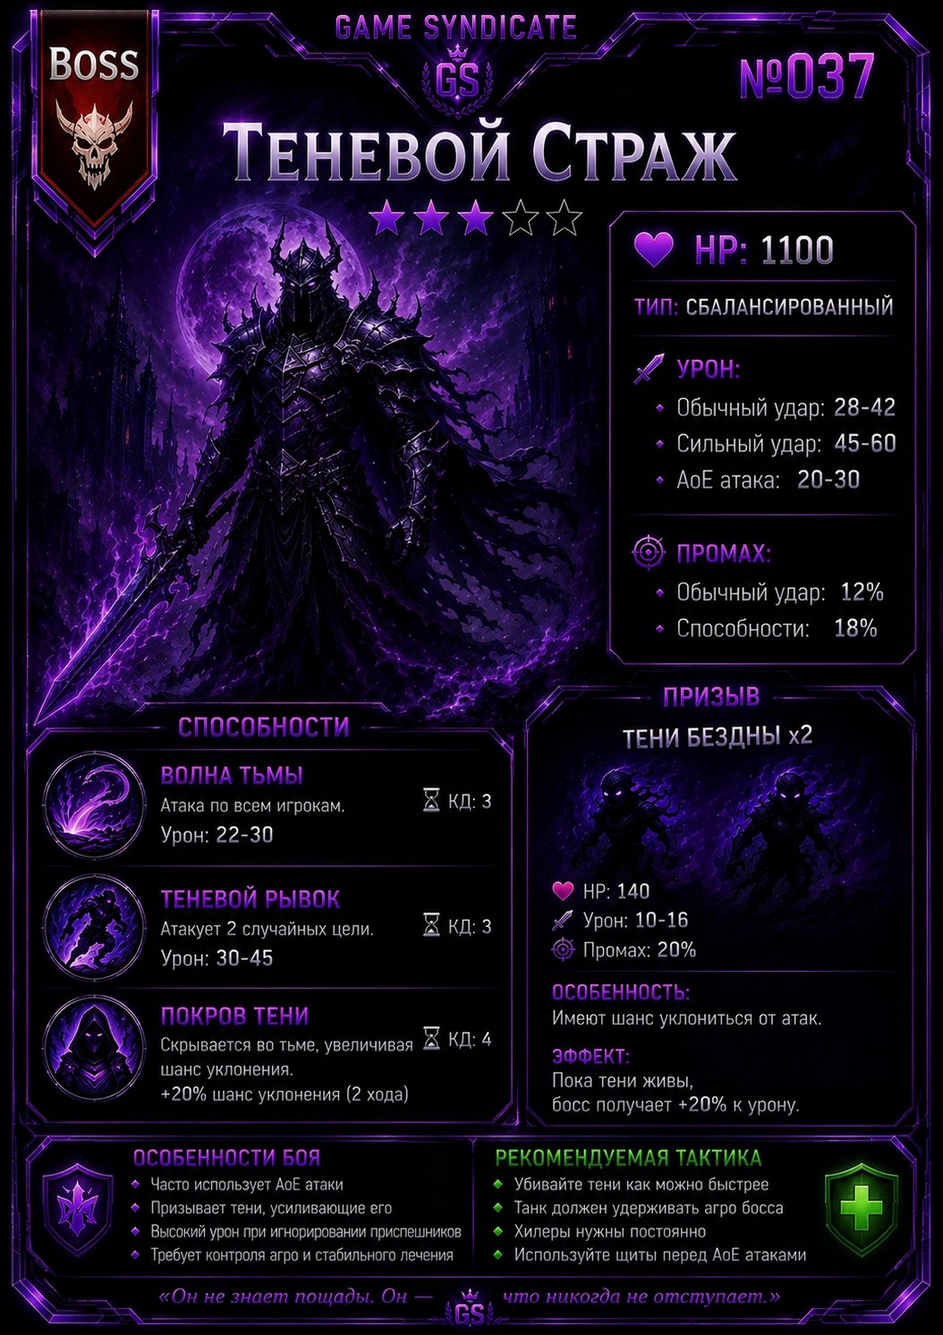
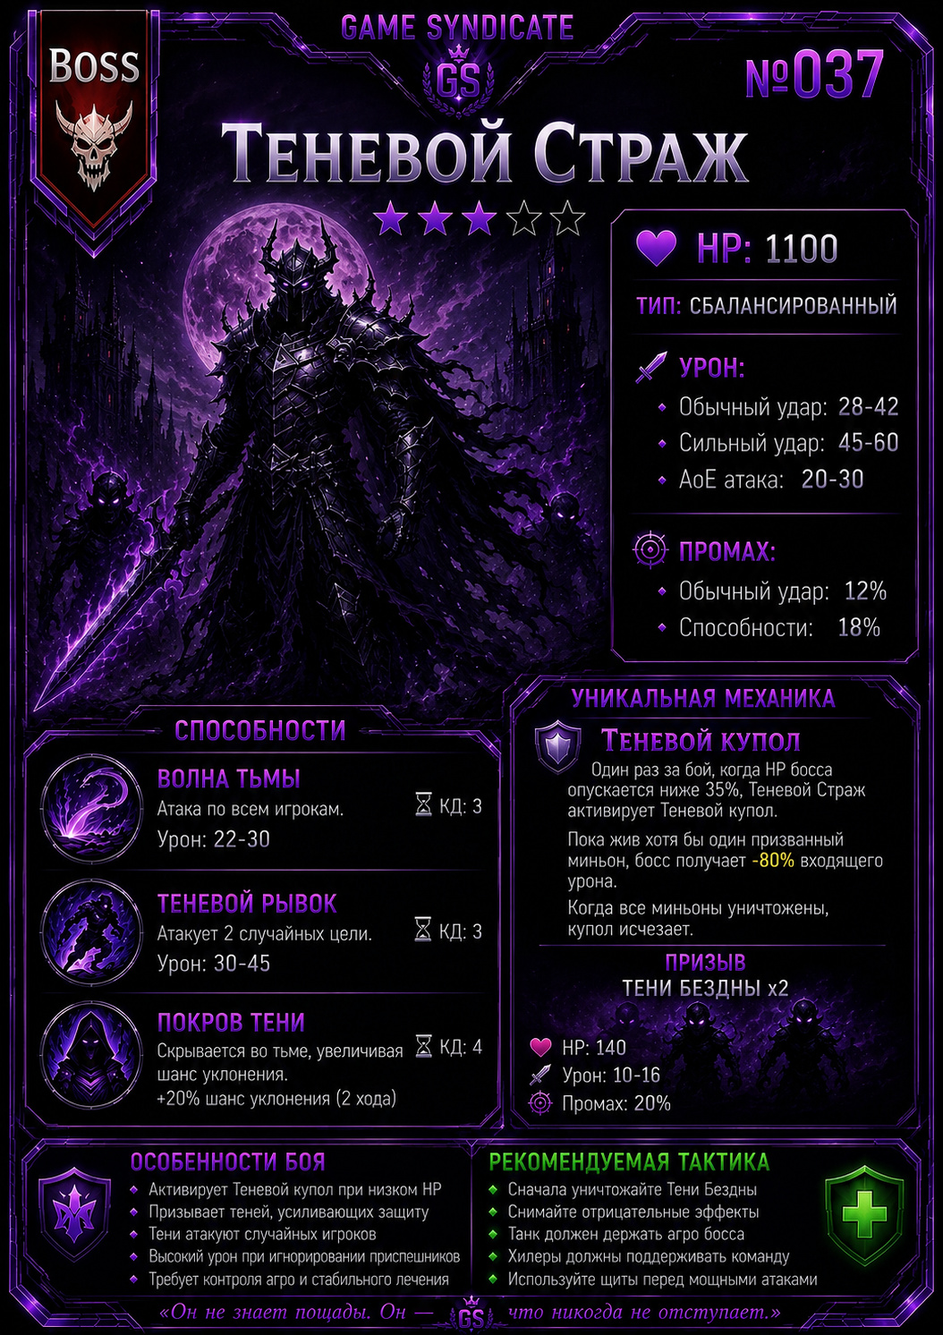
fdsafab3rw

diff --git a/services/worldBoss/worldBossSystem.js b/services/worldBoss/worldBossSystem.js
@@ -222,7 +222,7 @@ function buildEmbed(b, players) {
     e.addFields({ name: '🧙 Выбор классов', value: `Сейчас выбирает: ${who ? playerLabel(players.find(p => p.user_id === who) || { user_id: who }) : '—'}\nДо автовыбора: ${b.turn_deadline ? `<t:${Math.floor(b.turn_deadline / 1000)}:R>` : '—'}\nОсталось классов: **${(state.availableClasses || []).length}**` });
   }
   if (b.status === 'initiative_roll') e.addFields({ name: '🎲 Инициатива боя', value: `Бросили: **${Object.keys(state.initiativeRolls || {}).length}/${players.length}**\nДо автоброска: ${b.turn_deadline ? `<t:${Math.floor(b.turn_deadline / 1000)}:R>` : '—'}` });
-  if (b.status === 'active') { const turnNo = alive.length ? (b.turn_index % alive.length) + 1 : 0; e.addFields({ name: '▶ Сейчас ходит', value: `${current ? `<@${current.user_id}> • **${CLASSES[current.class_key]?.name}**` : '—'}\n**Ход ${turnNo} из ${alive.length}** • Раунд **${b.round_no}**\nДо автоатаки: ${b.turn_deadline ? `<t:${Math.floor(b.turn_deadline / 1000)}:R>` : '—'}` }); }
+  if (b.status === 'active') { const turnNo = alive.length ? (b.turn_index % alive.length) + 1 : 0; e.addFields({ name: '▶ Сейчас ходит', value: `${current ? `<@${current.user_id}> • **${CLASSES[current.class_key]?.name}**` : '—'}\n**Ход ${turnNo} из ${alive.length}** • Раунд **${b.round_no}**\nДо автоатаки: ${b.turn_deadline ? `<t:${Math.floor(b.turn_deadline / 1000)}:R>` : '—'}` }); const cfg=BOSSES.find(x=>x.cardId===b.boss_card_id)||{}; const mech={shadow_dome:'🛡 Теневой купол',void_absorption:'🕳 Поглощение Пустоты',chaos_rift:'🌀 Разлом Хаоса',overheat:`🔥 Перегрев: ${Number(state.ironHeat||0)}%`,storm_charge:`⚡ Накопление грозы: ${Number(state.stormCharge||0)}%`,decay_curse:'☠ Проклятие Разложения',ice_shackles:'❄ Ледяные оковы',dragon_eggs:'🥚 Драконьи яйца'}[cfg.mechanic]; if(mech)e.addFields({name:'⚙ Уникальная механика',value:mech}); }
   if (state.minions?.length) e.addFields({ name: '👾 Миньоны босса', value: state.minions.map(m => `${m.provoking ? '🛑' : '👾'} ${m.name}: ❤ **${m.hp}/${m.maxHp}**${m.provoking ? ' • ПРОВОКАЦИЯ' : ''}`).join('\n').slice(0, 1024) });
   const sum = summonsText(state); if (sum) e.addFields({ name: '🧙 Тотемы, духи и призывы', value: sum });
   if (['class_select','initiative_roll','active'].includes(b.status)) e.addFields({ name: b.status === 'active' ? '⚔ Порядок ходов' : 'Команда', value: players.slice(0, 18).map((p, index) => {
@@ -315,7 +315,7 @@ async function startRegistration(client, { manual = false } = {}) {
     db.prepare("UPDATE quick_event_rounds SET status='expired' WHERE status IN ('active','pending')").run();
     const ch = await clientRef.channels.fetch(CHANNEL_ID).catch(() => null); if (!ch?.isTextBased()) return { ok: false, reason: 'channel' }; const me = ch.guild?.members?.me; const perms = me ? ch.permissionsFor(me) : null; if (perms && !perms.has([PermissionsBitField.Flags.ViewChannel, PermissionsBitField.Flags.SendMessages, PermissionsBitField.Flags.EmbedLinks])) return { ok: false, reason: 'permissions' }; if (perms && !perms.has(PermissionsBitField.Flags.AttachFiles)) console.warn('[WorldBoss] В канале нет права «Прикреплять файлы»: визуальная карточка будет недоступна, но бой продолжит работать.');
     const boss = chooseUniqueBoss(), now = Date.now();
-    const st = { bossCardId: boss.cardId, allowedMinions: [...boss.minions], minions: [], summons: [], rage: 0, lastDestroyRound: -99, lastGroupCurseRound: -99, lastSummonRound: -99, lastCurseRound: -99, bossActionStats: {}, deathStats: { players: 0, bossMinions: 0, playerSummons: 0 }, log: [manual ? '🛠 Босс вызван вручную.' : '⏰ Босс появился по расписанию.'] };
+    const st = { bossCardId: boss.cardId, allowedMinions: [...boss.minions], minions: [], summons: [], rage: 0, lastDestroyRound: -99, lastGroupCurseRound: -99, lastSummonRound: -99, lastCurseRound: -99, bossActionStats: {}, stormCharge: 0, ironHeat: 0, shadowDomeActive: false, chaosRiftRound: null, deathStats: { players: 0, bossMinions: 0, playerSummons: 0 }, log: [manual ? '🛠 Босс вызван вручную.' : '⏰ Босс появился по расписанию.'] };
     const info = db.prepare(`INSERT INTO world_boss_battles(channel_id,boss_card_id,boss_name,boss_hp,boss_max_hp,status,registration_ends_at,state_json,created_at) VALUES(?,?,?,?,?,'registration',?,?,?)`).run(CHANNEL_ID, boss.cardId, boss.name, boss.baseHp, boss.baseHp, now + REGISTRATION_MS, JSON.stringify(st), now);
     const id = Number(info.lastInsertRowid); createdBattleId = id;
     const b = db.prepare('SELECT * FROM world_boss_battles WHERE id=?').get(id);
@@ -470,6 +470,7 @@ async function startCombat(id) {
     s.log.push(`💣 <@${p.user_id}> наносит боссу **${flat}** алхимического урона.`);
   }
   const startHp = Math.max(0, hp - bombTotal);
+  if (boss?.mechanic === 'dragon_eggs') { const egg=MINIONS[2058]; s.minions=s.minions||[]; for(let i=0;i<2;i++) s.minions.push({cardId:2058,instanceId:`2058-start-${Date.now()}-${i}`,provoking:false,ownerBossCardId:boss.cardId,name:egg.name,hp:200,maxHp:200,damage:[0,0],miss:0,damageType:'magic',isDragonEgg:true}); s.log.push('🥚 Багровый Дракон начинает бой с двумя Драконьими яйцами.'); }
   s.log.push(`⚔ Инициатива определена. Бой начался!${bombTotal ? ` Бомбы наносят суммарно **${bombTotal}** урона.` : ''}`); saveState(b, s);
   db.prepare("UPDATE world_boss_battles SET status='active',boss_hp=?,boss_max_hp=?,round_no=1,turn_index=0,turn_deadline=? WHERE id=?").run(startHp, hp, Date.now() + TURN_MS, id); await refresh(id); if (startHp <= 0) return finish(id, true); armTurn(id);
 }
@@ -527,29 +528,48 @@ function hurtEnemy(b, state, amount, damageType = 'physical', sourceClass = null
   const selected = String(state._selectedEnemyTarget || '');
   let targetMinion = null;
   let hitBoss = false;
-  if (provoking.length) {
-    targetMinion = provoking.find(m => selected === `minion:${m.instanceId}`) || pick(provoking);
-  } else if (selected === 'boss') {
-    hitBoss = true;
-  } else if (selected.startsWith('minion:')) {
-    targetMinion = minions.find(m => selected === `minion:${m.instanceId}`) || null;
-  } else {
-    const randomPool = ['boss', ...minions];
-    const chosen = pick(randomPool);
-    if (chosen === 'boss') hitBoss = true; else targetMinion = chosen;
-  }
+  if (provoking.length) targetMinion = provoking.find(m => selected === `minion:${m.instanceId}`) || pick(provoking);
+  else if (selected === 'boss') hitBoss = true;
+  else if (selected.startsWith('minion:')) targetMinion = minions.find(m => selected === `minion:${m.instanceId}`) || null;
+  else { const randomPool = ['boss', ...minions]; const chosen = pick(randomPool); if (chosen === 'boss') hitBoss = true; else targetMinion = chosen; }
+
   if (targetMinion && !hitBoss) {
     const adjusted = Math.max(1, Math.round(amount * resistanceMultiplier(targetMinion, damageType, pierce) * holyBonus(targetMinion, sourceClass)));
-    const dealt = Math.min(adjusted, targetMinion.hp); const died = targetMinion.hp > 0 && targetMinion.hp - adjusted <= 0; targetMinion.hp -= adjusted;
-    if (died) { state.log = state.log || []; state.log.push(`💀 Миньон босса **${targetMinion.name}** уничтожен!`); state.deathStats = state.deathStats || { players: 0, bossMinions: 0, playerSummons: 0 }; state.deathStats.bossMinions = Number(state.deathStats.bossMinions || 0) + 1; }
-    state.minions = state.minions.filter(x => x.hp > 0); saveState(b, state);
-    return { dealt, target: targetMinion.name, minion: true, died };
+    const dealt = Math.min(adjusted, targetMinion.hp);
+    const died = targetMinion.hp > 0 && targetMinion.hp - adjusted <= 0;
+    targetMinion.hp -= adjusted;
+    if (died) {
+      state.log = state.log || [];
+      state.log.push(`💀 Миньон босса **${targetMinion.name}** уничтожен!`);
+      state.deathStats = state.deathStats || { players:0, bossMinions:0, playerSummons:0 };
+      state.deathStats.bossMinions = Number(state.deathStats.bossMinions || 0) + 1;
+      if (Number(targetMinion.cardId) === 2058 || targetMinion.isDragonEgg) {
+        state.minions.push({cardId:2059,instanceId:`2059-hatch-${Date.now()}`,provoking:false,ownerBossCardId:cfg.cardId,name:'Дракончик',hp:140,maxHp:140,damage:[14,18],miss:15,damageType:'physical'});
+        state.log.push('🐲 Из разрушенного яйца вылупляется **Дракончик**!');
+      }
+    }
+    state.minions = state.minions.filter(x => x.hp > 0);
+    if (cfg.mechanic === 'shadow_dome' && state.shadowDomeActive && !state.minions.length) { state.shadowDomeActive=false; state.log.push('✨ Все тени уничтожены — Теневой купол исчезает.'); }
+    saveState(b,state);
+    return {dealt,target:targetMinion.name,minion:true,died};
   }
-  const vulnerability = Number(state.bossVulnerabilityOwnerTurns || 0) > 0 ? 1 + Number(state.bossVulnerability || 0) : 1;
-  const adjusted = Math.max(1, Math.round(amount * resistanceMultiplier(cfg, damageType, pierce) * holyBonus(cfg, sourceClass) * vulnerability));
-  const dealt = Math.min(adjusted, b.boss_hp); db.prepare('UPDATE world_boss_battles SET boss_hp=MAX(0,boss_hp-?) WHERE id=?').run(adjusted, b.id);
-  state.rage = clamp(Number(state.rage || 0) + Math.min(14, Math.max(2, Math.ceil(dealt / 30))), 0, 100); saveState(b, state);
-  return { dealt, target: b.boss_name, minion: false };
+
+  const hpRatio = Number(b.boss_hp||0)/Math.max(1,Number(b.boss_max_hp||1));
+  if (cfg.mechanic === 'shadow_dome' && !state.shadowDomeTriggered && hpRatio <= 0.35) { state.shadowDomeTriggered=true; state.shadowDomeActive=true; state.log.push('🛡 Теневой Страж активирует **Теневой купол**!'); }
+  if (cfg.mechanic === 'shadow_dome' && state.shadowDomeActive && (state.minions||[]).some(x=>x.hp>0)) amount *= 0.20;
+  if (cfg.mechanic === 'shadow_dome' && state.shadowDomeActive && !(state.minions||[]).some(x=>x.hp>0)) state.shadowDomeActive=false;
+
+  const overheatMul = cfg.mechanic === 'overheat' && Number(state.overheatVulnerableRounds||0)>0 ? 1.30 : 1;
+  const vulnerability = (Number(state.bossVulnerabilityOwnerTurns||0)>0 ? 1+Number(state.bossVulnerability||0) : 1) * overheatMul;
+  const adjusted = Math.max(1, Math.round(amount * resistanceMultiplier(cfg,damageType,pierce) * holyBonus(cfg,sourceClass) * vulnerability));
+  const dealt = Math.min(adjusted,b.boss_hp);
+  db.prepare('UPDATE world_boss_battles SET boss_hp=MAX(0,boss_hp-?) WHERE id=?').run(adjusted,b.id);
+  state.rage = clamp(Number(state.rage||0)+Math.min(14,Math.max(2,Math.ceil(dealt/30))),0,100);
+  if (cfg.mechanic === 'overheat') { state.ironHeat=clamp(Number(state.ironHeat||0)+25,0,100); if(state.ironHeat>=100){state.ironHeat=0;state.skipNextBossTurn=true;state.overheatVulnerableRounds=1;state.log.push('🔥 **Перегрев 100%!** Колосс пропустит следующий ход и получает +30% входящего урона.');} }
+  const freshHp=Math.max(0,Number(b.boss_hp||0)-dealt);
+  if (cfg.mechanic === 'shadow_dome' && !state.shadowDomeTriggered && freshHp/Math.max(1,Number(b.boss_max_hp||1))<=0.35) {state.shadowDomeTriggered=true;state.shadowDomeActive=true;state.log.push('🛡 Теневой купол активирован: пока живы тени, урон снижен на 80%.');}
+  saveState(b,state);
+  return {dealt,target:b.boss_name,minion:false};
 }
 function applyDamageBuff(p, base) { const e = effects(p); let d = base * damageMultiplier(p); if (p.class_key === 'berserker') { const missing = 1 - (p.hp / Math.max(1, p.max_hp)); d *= 1 + Math.min(0.5, missing * 0.6); } if (e.bloodRageTurns > 0) d *= 2; if (e.rageTurns > 0) d *= 1.4; if (e.damageBuffTurns > 0) d *= 1 + Number(e.damageBuff || 0); if (e.groupDamageRounds > 0) d *= 1 + Number(e.groupDamage || 0); if (e.doubleNext) { d *= 2; e.doubleNext = false; updateEffects(p.battle_id, p.user_id, e); } return Math.round(d); }
 function healPlayer(id, healerId, target, amount) { const te = effects(target); const penalty = Number(te.healingPenaltyTurns || 0) > 0 ? clamp(Number(te.healingPenalty || 0.30), 0, 0.8) : 0; const adjusted = Math.max(0, Math.round(Number(amount || 0) * (1 - penalty))); const nh = Math.min(target.max_hp, target.hp + adjusted), actual = nh - target.hp; db.prepare('UPDATE world_boss_players SET hp=? WHERE battle_id=? AND user_id=?').run(nh, id, target.user_id); if (actual > 0) db.prepare('UPDATE world_boss_players SET healing_done=healing_done+?,contribution=contribution+? WHERE battle_id=? AND user_id=?').run(actual, actual, id, healerId); return actual; }
@@ -614,6 +634,15 @@ function triggerDamageCurseTick(id, player) {
   return { damage, dead: hp <= 0 };
 }
 
+function triggerDecayCurseTick(id, player) {
+  const e=effects(player), stacks=Number(e.decayCurseStacks||0);
+  if(stacks<=0)return {damage:0,explosion:0,dead:false};
+  const damage=8+stacks*4; let hp=Math.max(0,Number(player.hp||0)-damage), explosion=0;
+  if(stacks>=3&&hp>0){explosion=Math.min(hp,45);hp=Math.max(0,hp-explosion);e.decayCurseStacks=0;e.healingPenaltyTurns=0;e.healingPenalty=0;}
+  db.prepare("UPDATE world_boss_players SET hp=?,damage_taken=damage_taken+?,status=? WHERE battle_id=? AND user_id=?").run(hp,damage+explosion,hp<=0?'dead':'alive',id,player.user_id);
+  updateEffects(id,player.user_id,e); return {damage,explosion,dead:hp<=0};
+}
+
 async function triggerImmediateBossRage(id) {
   let b = db.prepare("SELECT * FROM world_boss_battles WHERE id=? AND status='active'").get(id);
   if (!b) return false;
@@ -644,6 +673,8 @@ async function perform(id, userId, action, auto = false, targetId = null) {
   try {
     let b = db.prepare("SELECT * FROM world_boss_battles WHERE id=? AND status='active'").get(id); if (!b) return { ok: false, reason: 'ended' };
     const { alive, p } = currentPlayer(b); if (!p || p.user_id !== String(userId)) return { ok: false, reason: 'turn' };
+    const bossCfgForTurn=BOSSES.find(x=>x.cardId===b.boss_card_id);
+    if(bossCfgForTurn?.mechanic==='decay_curse'){const decay=triggerDecayCurseTick(id,p);if(decay.damage>0){b=db.prepare('SELECT * FROM world_boss_battles WHERE id=?').get(id);addLog(b,`☠ Проклятие Разложения наносит <@${userId}> **${decay.damage} HP**${decay.explosion?` и взрывается ещё на **${decay.explosion} HP**`:''}.`);if(decay.dead){await nextTurn(id,alive);return {ok:true,text:'☠ Герой погиб от Проклятия Разложения до действия.'};}}}
     const curseTick = triggerDamageCurseTick(id, p);
     if (curseTick.damage > 0) {
       b = db.prepare('SELECT * FROM world_boss_battles WHERE id=?').get(id);
@@ -712,6 +743,8 @@ async function perform(id, userId, action, auto = false, targetId = null) {
       b = db.prepare('SELECT * FROM world_boss_battles WHERE id=?').get(id);
       addLog(b, curseText);
     }
+    b=db.prepare('SELECT * FROM world_boss_battles WHERE id=?').get(id); const uniqueBoss=BOSSES.find(x=>x.cardId===b.boss_card_id);
+    if(uniqueBoss?.mechanic === 'storm_charge'){const ss=stateOf(b);ss.stormCharge=clamp(Number(ss.stormCharge||0)+20,0,100);ss.log.push(`⚡ Накопление грозы: **${ss.stormCharge}%**.`);if(ss.stormCharge>=100){const victims=shuffle(battlePlayers(id).filter(x=>x.status==='alive')).slice(0,3);let total=0;for(const v of victims)total+=damageTarget(id,v,rand(60,80),'magic').hpDamage;ss.stormCharge=0;ss.log.push(`⚡ **Цепная молния!** ${victims.map(v=>`<@${v.user_id}>`).join(', ')} получают суммарно **${total} HP**.`);}saveState(b,ss);}
     await triggerImmediateBossRage(id);
     if (!battlePlayers(id).some(x => x.status === 'alive')) return finish(id, false);
 
@@ -1121,6 +1154,12 @@ async function bossTurn(id) {
   state.bossActionStats = state.bossActionStats || {};
   state.rage = clamp(Number(state.rage || 0) + 32, 0, 100);
 
+  if (boss.mechanic === 'overheat' && state.skipNextBossTurn) { state.skipNextBossTurn=false; state.log.push('🔥 Железный Колосс перегрет и **пропускает ход**.'); if(Number(state.overheatVulnerableRounds||0)>0)state.overheatVulnerableRounds--; saveState(b,state); return; }
+  if (boss.mechanic === 'void_absorption' && Number(b.round_no)%4===0) { const victim=pick(players),meta=resourceMeta(victim.class_key),key=meta.key,current=Number(victim[key]||0),drained=Math.min(40,current); db.prepare(`UPDATE world_boss_players SET ${key}=MAX(0,${key}-?) WHERE battle_id=? AND user_id=?`).run(drained,id,victim.user_id); state.log.push(`🕳 **Поглощение Пустоты:** <@${victim.user_id}> теряет **${drained} ${meta.label.toLowerCase()}**.`); }
+  if (boss.mechanic === 'chaos_rift') { const rift=state.minions.find(m=>m.isChaosRift); if(rift){rift.riftAge=Number(rift.riftAge||0)+1;if(rift.riftAge>=2){const eliteId=pick([2049,2050]),ec=MINIONS[eliteId];state.minions=state.minions.filter(m=>m!==rift);state.minions.push({cardId:eliteId,instanceId:`elite-${Date.now()}`,provoking:Boolean(ec.provoking),ownerBossCardId:boss.cardId,name:ec.name,hp:ec.maxHp,maxHp:ec.maxHp,damage:ec.damage,miss:ec.miss,damageType:ec.damageType||'magic'});state.log.push(`🌀 Разлом не уничтожен — выходит элитный **${ec.name}**!`);}} if(Number(b.round_no)%3===0&&!state.minions.some(m=>m.isChaosRift)){state.minions.push({cardId:9039,instanceId:`rift-${Date.now()}`,name:'Разлом Хаоса',hp:180,maxHp:180,damage:[0,0],miss:100,damageType:'magic',isChaosRift:true,riftAge:0,provoking:false});state.log.push('🌀 Архонт открывает **Разлом Хаоса**. Уничтожьте его за 2 раунда!');} }
+  if (boss.mechanic === 'decay_curse' && Number(b.round_no)%2===0) { const victim=pick(players),e=effects(victim);e.decayCurseStacks=Math.min(3,Number(e.decayCurseStacks||0)+1);e.healingPenaltyTurns=Math.max(Number(e.healingPenaltyTurns||0),3);e.healingPenalty=0.50;updateEffects(id,victim.user_id,e);state.log.push(`☠ <@${victim.user_id}> получает **Проклятие Разложения** (${e.decayCurseStacks}/3).`); }
+  if (boss.mechanic === 'ice_shackles' && Number(b.round_no)%3===0) { const victim=pick(players),e=effects(victim);e.skillSilencedTurns=Math.max(Number(e.skillSilencedTurns||0),1);e.ultSilencedTurns=Math.max(Number(e.ultSilencedTurns||0),1);updateEffects(id,victim.user_id,e);state.log.push(`❄ **Ледяные оковы:** на следующем ходу <@${victim.user_id}> доступна только обычная атака.`); }
+
   const hpRatio = b.boss_max_hp ? b.boss_hp / b.boss_max_hp : 1;
   const phase = hpRatio <= 0.25 ? 3 : hpRatio <= 0.5 ? 2 : 1;
   const tauntingTank = players.find(x => CLASSES[x.class_key]?.role === 'tank' && effects(x).tauntRounds > 0);
@@ -1294,6 +1333,7 @@ async function bossTurn(id) {
   state.log.push(text);
 
   for (const m of state.minions) {
+    if (m.isChaosRift || Number(m.damage?.[1] || 0) <= 0) continue;
     const aliveNow = battlePlayers(id).filter(x => x.status === 'alive');
     if (!aliveNow.length) break;
     const liveTanks = aliveNow.filter(x => CLASSES[x.class_key]?.role === 'tank');

diff --git a/services/worldBoss/config.js b/services/worldBoss/config.js
@@ -42,14 +42,14 @@ const MINIONS = {
 };
 
 const BOSSES = [
-  {cardId:2037,attackTypes:[['physical',45],['magic',55]],name:'Теневой Страж',baseHp:1100,damage:[32,49],miss:7,physicalResist:18,magicResist:5,dark:true,minions:[2045,2046],summonEvery:3},
-  {cardId:2038,attackTypes:[['physical',25],['magic',75]],name:'Пожиратель Пустоты',baseHp:1350,damage:[36,52],miss:7,physicalResist:8,magicResist:22,dark:true,minions:[2047,2048],summonEvery:3},
-  {cardId:2039,attackTypes:[['physical',50],['magic',50]],name:'Архонт Хаоса',baseHp:1500,damage:[38,56],miss:7,physicalResist:12,magicResist:18,dark:true,minions:[2049,2050],summonEvery:3},
-  {cardId:2040,attackTypes:[['physical',85],['magic',15]],name:'Железный Колосс',baseHp:1750,damage:[36,52],miss:6,physicalResist:28,magicResist:-8,minions:[2051],summonEvery:3},
-  {cardId:2041,attackTypes:[['physical',20],['magic',80]],name:'Грозовой Тиран',baseHp:1600,damage:[36,51],miss:7,physicalResist:5,magicResist:25,minions:[2052,2053],summonEvery:2},
-  {cardId:2042,attackTypes:[['physical',65],['magic',35]],name:'Костяной Император',baseHp:1800,damage:[38,56],miss:7,physicalResist:22,magicResist:8,undead:true,dark:true,minions:[2054,2055],summonEvery:3},
-  {cardId:2043,attackTypes:[['physical',40],['magic',60]],name:'Ледяной Левиафан',baseHp:1900,damage:[41,58],miss:7,physicalResist:15,magicResist:20,minions:[2056,2057],summonEvery:3},
-  {cardId:2044,attackTypes:[['physical',60],['magic',40]],name:'Багровый Дракон',baseHp:2100,damage:[47,64],miss:6,physicalResist:20,magicResist:15,minions:[2058,2059],summonEvery:3},
+  {cardId:2037,attackTypes:[['physical',45],['magic',55]],name:'Теневой Страж',baseHp:1100,damage:[28,42],miss:12,abilityMiss:18,physicalResist:18,magicResist:5,dark:true,minions:[2045,2046],summonEvery:3,mechanic:'shadow_dome'},
+  {cardId:2038,attackTypes:[['physical',25],['magic',75]],name:'Пожиратель Пустоты',baseHp:1350,damage:[30,45],miss:12,abilityMiss:18,physicalResist:8,magicResist:22,dark:true,minions:[2047,2048],summonEvery:3,mechanic:'void_absorption'},
+  {cardId:2039,attackTypes:[['physical',50],['magic',50]],name:'Архонт Хаоса',baseHp:1500,damage:[32,48],miss:12,abilityMiss:18,physicalResist:12,magicResist:18,dark:true,minions:[2049,2050],summonEvery:3,mechanic:'chaos_rift'},
+  {cardId:2040,attackTypes:[['physical',85],['magic',15]],name:'Железный Колосс',baseHp:1750,damage:[30,45],miss:12,abilityMiss:18,physicalResist:28,magicResist:-8,minions:[2051],summonEvery:3,mechanic:'overheat'},
+  {cardId:2041,attackTypes:[['physical',20],['magic',80]],name:'Грозовой Тиран',baseHp:1600,damage:[30,44],miss:12,abilityMiss:18,physicalResist:5,magicResist:25,minions:[2052,2053],summonEvery:2,mechanic:'storm_charge'},
+  {cardId:2042,attackTypes:[['physical',35],['magic',65]],name:'Костяной Император',baseHp:1800,damage:[32,48],miss:12,abilityMiss:18,physicalResist:22,magicResist:8,undead:true,dark:true,minions:[2054,2055],summonEvery:3,mechanic:'decay_curse'},
+  {cardId:2043,attackTypes:[['physical',20],['magic',80]],name:'Ледяной Левиафан',baseHp:1650,damage:[30,45],miss:12,abilityMiss:18,physicalResist:15,magicResist:20,minions:[2056,2057],summonEvery:3,mechanic:'ice_shackles'},
+  {cardId:2044,attackTypes:[['physical',60],['magic',40]],name:'Багровый Дракон',baseHp:2100,damage:[40,55],miss:12,abilityMiss:18,physicalResist:20,magicResist:15,minions:[2058,2059],summonEvery:3,mechanic:'dragon_eggs'},
 ];
 
 module.exports={CLASSES,MINIONS,BOSSES};

diff --git a/GS-CORE-V18.4.3-UNIQUE-BOSS-MECHANICS.md b/GS-CORE-V18.4.3-UNIQUE-BOSS-MECHANICS.md
@@ -1,0 +1,3 @@
+# GS CORE V18.4.3 — UNIQUE BOSS MECHANICS
+
+Обновлены карточки и боевые данные боссов №037–044. Реализованы механики: Теневой купол, Поглощение Пустоты, Разлом Хаоса, Перегрев, Накопление грозы, Проклятие Разложения, Ледяные оковы и Драконьи яйца.
